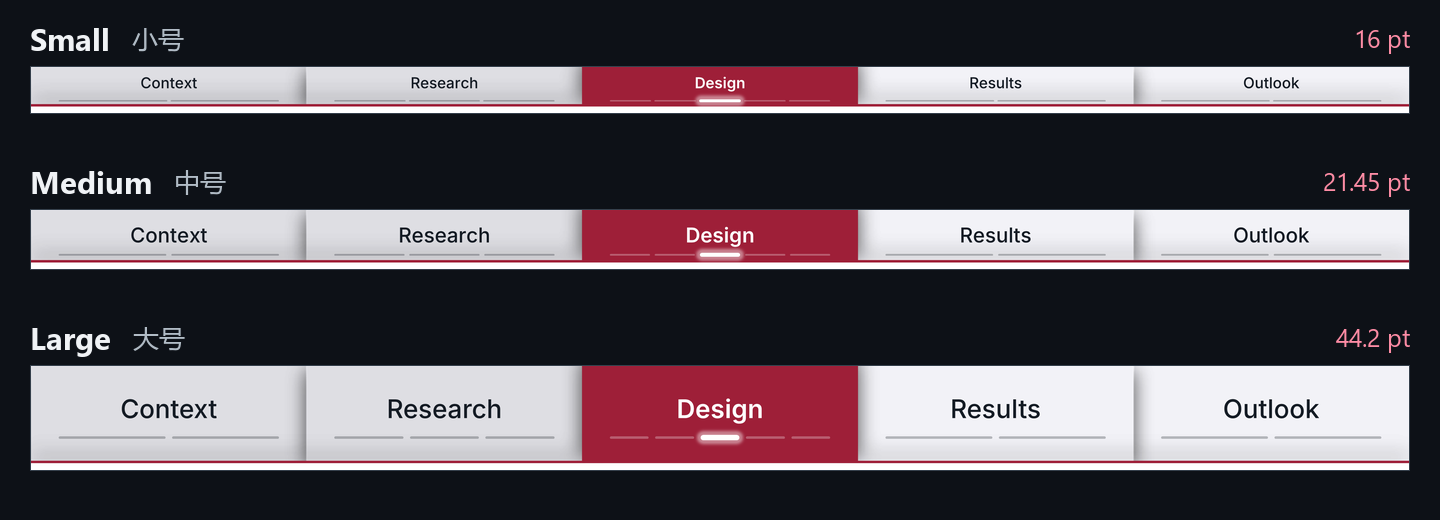
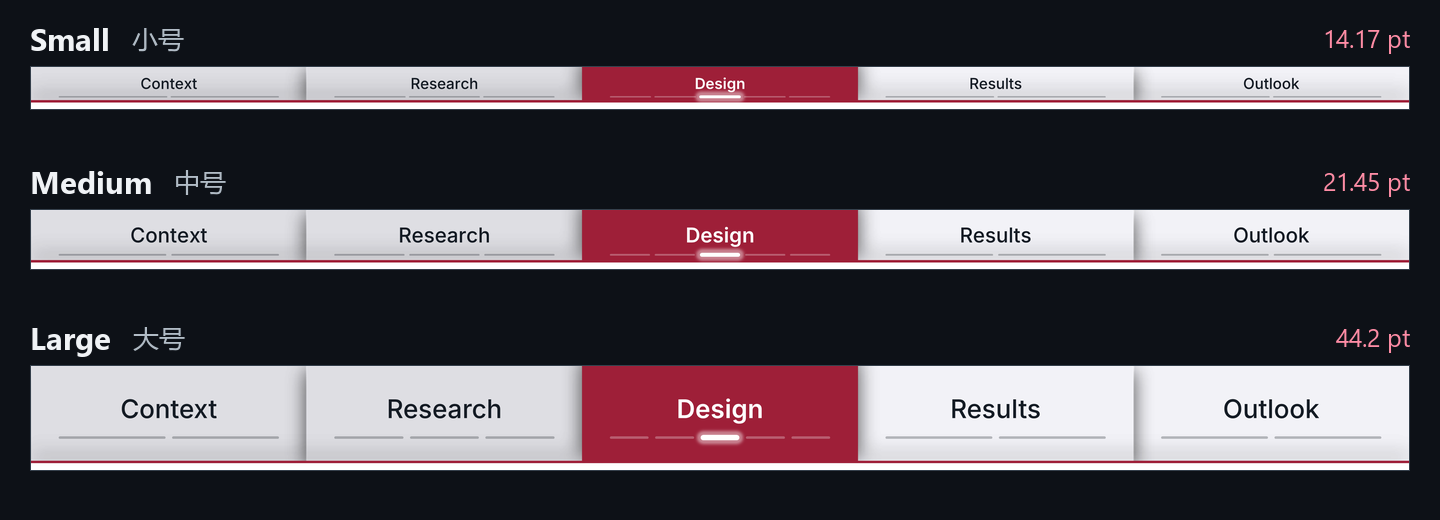
Adjust title spacing in the small Crimson Layers preset

Changed region(s): [[0.0, 0.1538, 1.0, 0.2462], [0.9062, 0.0615, 0.9688, 0.0923]]

diff --git a/english_sources.py b/english_sources.py
@@ -44,7 +44,7 @@ def prepare_english(
             continue
         source = ENCODED_TEXT.sub(translate_vba, module.read_text("utf-8-sig"))
         if module.name == "mdlOptionsHandling.bas":
-            source = source.replace('" CN.11.8 32b/64b"', '" EN.11.8 32b/64b"')
+            source = source.replace('" CN.11.9 32b/64b"', '" EN.11.9 32b/64b"')
         if module.name == "basGeneral.bas":
             source = source.replace('family = "Microsoft YaHei"',
                                     'family = "Segoe UI"')
@@ -60,7 +60,7 @@ def prepare_english(
     xml.write(target / "customUI14.xml", encoding="UTF-8", xml_declaration=True)
 
     catalog = json.loads((project_dir / "styles.json").read_text("utf-8"))
-    catalog["version"] = "EN.11.8"
+    catalog["version"] = "EN.11.9"
     for style in catalog["styles"]:
         for field in ("name", "family", "description"):
             style[field] = ribbon_text[style[field]]

diff --git a/build_package.py b/build_package.py
@@ -314,7 +314,7 @@ def main():
 
         source_dir = prepare_english(source_dir, ROOT, args.output_dir / "en")
     version = args.version_token or (
-        "EN11_8" if args.language == "en" else "CN11_8"
+        "EN11_9" if args.language == "en" else "CN11_9"
     )
     base_dir = RESOURCE_ROOT / "original/ProgressIndicators_v1960_3264b"
     reports = []

diff --git a/README.md b/README.md
@@ -9,7 +9,7 @@
   <sub><a href="https://github.com/AdamWilsonLab/progress_indicators">Upstream GitHub repository (AdamWilsonLab/progress_indicators)</a> | <a href="https://datenbank-projekt.de/projekte/progress-indicator-powerpoint-2010-2013-2016-32-and-64-bit-windows-mac">Olaf Nöhring's project page</a></sub>
 </p>
 
-<p align="center"><sub>PowerPoint for Windows &nbsp;|&nbsp; EN.11.8 / CN.11.8</sub></p>
+<p align="center"><sub>PowerPoint for Windows &nbsp;|&nbsp; EN.11.9 / CN.11.9</sub></p>
 
 <img src="docs/assets/native/crimson-layers.webp" alt="Five section tabs span the slide. Design is red, and its third marker glows white." width="100%" />
 
@@ -38,8 +38,8 @@ Download the ZIP for the language you want on the PowerPoint ribbon. Both packag
 
 | Download | File to open in PowerPoint |
 | --- | --- |
-| <a href="https://github.com/GH-X-ST/PowerPoint-Progress-Indicators/releases/download/EN.11.8/ProgressIndicators-EN.11.8.zip"><picture><source media="(prefers-color-scheme: dark)" srcset="docs/assets/badges/en-dark.svg" /><source media="(prefers-color-scheme: light)" srcset="docs/assets/badges/en-light.svg" /><img src="docs/assets/badges/en-light.svg" alt="Download the English edition (ZIP)" width="164" /></picture></a> | `ProgressIndicators_v1960_3264b_SB_EN11_8.ppam` |
-| <a href="https://github.com/GH-X-ST/PowerPoint-Progress-Indicators/releases/download/CN.11.8/ProgressIndicators-CN.11.8.zip"><picture><source media="(prefers-color-scheme: dark)" srcset="docs/assets/badges/cn-dark.svg" /><source media="(prefers-color-scheme: light)" srcset="docs/assets/badges/cn-light.svg" /><img src="docs/assets/badges/cn-light.svg" alt="Download the Simplified Chinese edition (ZIP)" width="164" /></picture></a> | `ProgressIndicators_v1960_3264b_SB_CN11_8.ppam` |
+| <a href="https://github.com/GH-X-ST/PowerPoint-Progress-Indicators/releases/download/EN.11.9/ProgressIndicators-EN.11.9.zip"><picture><source media="(prefers-color-scheme: dark)" srcset="docs/assets/badges/en-dark.svg" /><source media="(prefers-color-scheme: light)" srcset="docs/assets/badges/en-light.svg" /><img src="docs/assets/badges/en-light.svg" alt="Download the English edition (ZIP)" width="164" /></picture></a> | `ProgressIndicators_v1960_3264b_SB_EN11_9.ppam` |
+| <a href="https://github.com/GH-X-ST/PowerPoint-Progress-Indicators/releases/download/CN.11.9/ProgressIndicators-CN.11.9.zip"><picture><source media="(prefers-color-scheme: dark)" srcset="docs/assets/badges/cn-dark.svg" /><source media="(prefers-color-scheme: light)" srcset="docs/assets/badges/cn-light.svg" /><img src="docs/assets/badges/cn-light.svg" alt="Download the Simplified Chinese edition (ZIP)" width="164" /></picture></a> | `ProgressIndicators_v1960_3264b_SB_CN11_9.ppam` |
 
 1. Extract the ZIP. In PowerPoint for Windows, open **File > Options > Add-ins**.
 2. At the bottom of the dialog, set **Manage** to **PowerPoint Add-ins** and click **Go**.
@@ -80,12 +80,12 @@ With **Equal Sections**, each of the five sections below gets a fifth of the bar
 
 ### Choose a size and marker shape
 
-Each preset comes in **Small**, **Medium**, and **Large**. With a top or bottom bar, Small uses 7 pt titles. Its panel is 13 pt high in most presets and 16 pt in Crimson Layers, where the extra space separates letters such as g from the markers. The markers are half the height of the Large markers. They fill the middle 90% of the section in most presets. Crimson Layers uses the middle 80% at every size. For a left or right bar, adjust the sidebar width separately.
+Each preset comes in **Small**, **Medium**, and **Large**. With a top or bottom bar, Small uses 7 pt titles. Its panel is 13 pt high in most presets and about 14.17 pt in Crimson Layers. In the Design example below, the title starts 5 pt below the top edge, and the bottom of the g sits 1.5 pt above the solid part of the current marker. The markers are half the height of the Large markers. They fill the middle 90% of the section in most presets. Crimson Layers uses the middle 80% at every size. For a left or right bar, adjust the sidebar width separately.
 
 <picture>
   <source media="(prefers-color-scheme: dark)" srcset="docs/assets/native/sizes-dark.webp" />
   <source media="(prefers-color-scheme: light)" srcset="docs/assets/native/sizes-light.webp" />
-  <img src="docs/assets/native/sizes-light.webp" alt="Crimson Layers in Small (16 pt), Medium (21.45 pt), and Large (44.2 pt). Design is the current section in all three." width="100%" />
+  <img src="docs/assets/native/sizes-light.webp" alt="Crimson Layers in Small (14.17 pt), Medium (21.45 pt), and Large (44.2 pt). Design is the current section in all three." width="100%" />
 </picture>
 
 <details>
@@ -481,12 +481,12 @@ uv pip install --python .venv\Scripts\python.exe -r requirements-build.txt
 .\.venv\Scripts\python.exe build_package.py --language en --output-dir rebuild --report rebuild/package-validation.json
 ```
 
-The build creates `rebuild/ProgressIndicators_v1960_3264b_SB_EN11_8.pptm`. The English VBA and Ribbon XML are in `rebuild/en/source/` and the translated preset catalog is in `rebuild/en/styles.json`.
+The build creates `rebuild/ProgressIndicators_v1960_3264b_SB_EN11_9.pptm`. The English VBA and Ribbon XML are in `rebuild/en/source/` and the translated preset catalog is in `rebuild/en/styles.json`.
 
 To package the `.ppam`, continue in the same PowerShell window. This step uses desktop PowerPoint and needs permission to run the presentation's macros. Choose a new output file.
 
 ```powershell
-$name = 'ProgressIndicators_v1960_3264b_SB_EN11_8'
+$name = 'ProgressIndicators_v1960_3264b_SB_EN11_9'
 $sourceDeck = (Resolve-Path "rebuild\$name.pptm").Path
 $releaseDir = Join-Path (Get-Location) 'rebuild\distribution'
 $ppam = Join-Path $releaseDir "$name.ppam"

diff --git a/README.zh-CN.md b/README.zh-CN.md
@@ -9,7 +9,7 @@
   <sub><a href="https://github.com/AdamWilsonLab/progress_indicators">上游 GitHub 仓库（AdamWilsonLab/progress_indicators）</a> · <a href="https://datenbank-projekt.de/projekte/progress-indicator-powerpoint-2010-2013-2016-32-and-64-bit-windows-mac">Olaf Nöhring 的项目页</a></sub>
 </p>
 
-<p align="center"><sub>Windows 桌面版 PowerPoint &nbsp;|&nbsp; CN.11.8 / EN.11.8</sub></p>
+<p align="center"><sub>Windows 桌面版 PowerPoint &nbsp;|&nbsp; CN.11.9 / EN.11.9</sub></p>
 
 <img src="docs/assets/native/crimson-layers.webp" alt="深红层叠进度条：当前在 Design 章的第 3 页，章名下方的第三个页标发亮。" width="100%" />
 
@@ -42,8 +42,8 @@
 
 | 下载 | 解压后在 PowerPoint 中选择 |
 | --- | --- |
-| <a href="https://github.com/GH-X-ST/PowerPoint-Progress-Indicators/releases/download/CN.11.8/ProgressIndicators-CN.11.8.zip"><picture><source media="(prefers-color-scheme: dark)" srcset="docs/assets/badges/cn-dark.svg" /><source media="(prefers-color-scheme: light)" srcset="docs/assets/badges/cn-light.svg" /><img src="docs/assets/badges/cn-light.svg" alt="下载 CN.11.8 压缩包" width="164" /></picture></a> | `ProgressIndicators_v1960_3264b_SB_CN11_8.ppam` |
-| <a href="https://github.com/GH-X-ST/PowerPoint-Progress-Indicators/releases/download/EN.11.8/ProgressIndicators-EN.11.8.zip"><picture><source media="(prefers-color-scheme: dark)" srcset="docs/assets/badges/en-dark.svg" /><source media="(prefers-color-scheme: light)" srcset="docs/assets/badges/en-light.svg" /><img src="docs/assets/badges/en-light.svg" alt="下载 EN.11.8 压缩包" width="164" /></picture></a> | `ProgressIndicators_v1960_3264b_SB_EN11_8.ppam` |
+| <a href="https://github.com/GH-X-ST/PowerPoint-Progress-Indicators/releases/download/CN.11.9/ProgressIndicators-CN.11.9.zip"><picture><source media="(prefers-color-scheme: dark)" srcset="docs/assets/badges/cn-dark.svg" /><source media="(prefers-color-scheme: light)" srcset="docs/assets/badges/cn-light.svg" /><img src="docs/assets/badges/cn-light.svg" alt="下载 CN.11.9 压缩包" width="164" /></picture></a> | `ProgressIndicators_v1960_3264b_SB_CN11_9.ppam` |
+| <a href="https://github.com/GH-X-ST/PowerPoint-Progress-Indicators/releases/download/EN.11.9/ProgressIndicators-EN.11.9.zip"><picture><source media="(prefers-color-scheme: dark)" srcset="docs/assets/badges/en-dark.svg" /><source media="(prefers-color-scheme: light)" srcset="docs/assets/badges/en-light.svg" /><img src="docs/assets/badges/en-light.svg" alt="下载 EN.11.9 压缩包" width="164" /></picture></a> | `ProgressIndicators_v1960_3264b_SB_EN11_9.ppam` |
 
 1. 在 Windows 桌面版 PowerPoint 中打开 **文件 > 选项 > 加载项**。
 2. 在窗口底部的 **管理** 列表中选择 **PowerPoint 加载项**，点击 **转到**。如果列表里已启用旧版或另一种语言的版本，先取消勾选。
@@ -92,12 +92,12 @@
 
 ### 大、中、小号
 
-在预设名称下选择尺寸。以 **深红层叠** 为例，放在页面顶部或底部时，小号高 16 pt，中号高 21.45 pt，大号高 44.2 pt。小号章名与页标之间多留了 3 pt，像 g 这样向下伸出的字母也有空隙。所有预设的小号都用 7 pt 的章名，页标厚度是同款大号的一半。大多数预设的小号页标两端各留 5% 的章宽，深红层叠的三种尺寸都各留 10%。
+在预设名称下选择尺寸。以 **深红层叠** 为例，放在页面顶部或底部时，小号高约 14.17 pt，中号高 21.45 pt，大号高 44.2 pt。下图小号的 `Design` 距章体顶部 5 pt，字母 `g` 的下缘距当前页标的实心部分 1.5 pt。所有预设的小号都用 7 pt 的章名，页标厚度是同款大号的一半。大多数预设的小号页标两端各留 5% 的章宽，深红层叠的三种尺寸都各留 10%。
 
 <picture>
   <source media="(prefers-color-scheme: dark)" srcset="docs/assets/native/sizes-dark.webp" />
   <source media="(prefers-color-scheme: light)" srcset="docs/assets/native/sizes-light.webp" />
-  <img src="docs/assets/native/sizes-light.webp" alt="深红层叠横向放置。小号高 16 pt，中号高 21.45 pt，大号高 44.2 pt。" width="100%" />
+  <img src="docs/assets/native/sizes-light.webp" alt="深红层叠横向放置。小号高 14.17 pt，中号高 21.45 pt，大号高 44.2 pt。" width="100%" />
 </picture>
 
 <details>
@@ -501,10 +501,10 @@ VBA 模块、窗体和功能区 XML 在 `source/` 中。修改预设参数时，
 ```powershell
 uv venv --python 3.12 .venv
 uv pip install --python .venv\Scripts\python.exe -r requirements-build.txt
-.\.venv\Scripts\python.exe build_package.py --output-dir rebuild --version-token CN11_8 --report rebuild\package-validation.json
+.\.venv\Scripts\python.exe build_package.py --output-dir rebuild --version-token CN11_9 --report rebuild\package-validation.json
 ```
 
-输出文件是 `rebuild/ProgressIndicators_v1960_3264b_SB_CN11_8.pptm`。要得到可安装的 `.ppam`，用发布脚本调用 Windows 桌面版 PowerPoint 另存这份文稿。[中文版构建与发布说明](BUILD_zh-CN.txt)
+输出文件是 `rebuild/ProgressIndicators_v1960_3264b_SB_CN11_9.pptm`。要得到可安装的 `.ppam`，用发布脚本调用 Windows 桌面版 PowerPoint 另存这份文稿。[中文版构建与发布说明](BUILD_zh-CN.txt)
 
 <a id="license"></a>
 <a id="许可证与署名"></a>

diff --git a/THIRD_PARTY_NOTICES.en.md b/THIRD_PARTY_NOTICES.en.md
@@ -6,6 +6,6 @@ This project is based on Progress Indicator 1.960. Its MIT License preserves the
 
 ## FatCow Farm-Fresh Web Icons
 
-Copyright (C) 2009-2014 FatCow Web Hosting. The upstream author credits FatCow for most of the Ribbon icons. EN.11.8 includes the icons embedded in the upstream PowerPoint templates. FatCow's Farm-Fresh Web Icons use the **Creative Commons Attribution 3.0 United States (CC BY 3.0 US)** license. [FatCow icon page](http://www.fatcow.com/free-icons) | [CC BY 3.0 US legal code](https://creativecommons.org/licenses/by/3.0/us/legalcode)
+Copyright (C) 2009-2014 FatCow Web Hosting. The upstream author credits FatCow for most of the Ribbon icons. EN.11.9 includes the icons embedded in the upstream PowerPoint templates. FatCow's Farm-Fresh Web Icons use the **Creative Commons Attribution 3.0 United States (CC BY 3.0 US)** license. [FatCow icon page](http://www.fatcow.com/free-icons) | [CC BY 3.0 US legal code](https://creativecommons.org/licenses/by/3.0/us/legalcode)
 
 FatCow's original terms describe use in personal and commercial software, websites, and templates and request a link to the icon source in the software or website credits. They also list restrictions on reselling, sublicensing, renting, transferring, or otherwise making the icons available for others to use. [Archived FatCow terms of use](https://web.archive.org/web/20190416064342/https://www.fatcow.com/free-icons) | [Mirror of the notice distributed with the icon set](https://raw.githubusercontent.com/gammasoft/fatcow/master/readme-fatcow.txt)

diff --git a/THIRD_PARTY_NOTICES.md b/THIRD_PARTY_NOTICES.md
@@ -6,6 +6,6 @@
 
 ## FatCow Farm-Fresh Web Icons
 
-© 2009–2014 FatCow Web Hosting. 上游作者说明，功能区的大部分图标取自 FatCow。CN.11.8 沿用了上游模板中嵌入的图标。FatCow 的 Farm-Fresh Web Icons 使用 **Creative Commons Attribution 3.0 United States (CC BY 3.0 US)** 许可。[FatCow 图标原页](http://www.fatcow.com/free-icons) · [许可全文](https://creativecommons.org/licenses/by/3.0/us/legalcode)
+© 2009–2014 FatCow Web Hosting. 上游作者说明，功能区的大部分图标取自 FatCow。CN.11.9 沿用了上游模板中嵌入的图标。FatCow 的 Farm-Fresh Web Icons 使用 **Creative Commons Attribution 3.0 United States (CC BY 3.0 US)** 许可。[FatCow 图标原页](http://www.fatcow.com/free-icons) · [许可全文](https://creativecommons.org/licenses/by/3.0/us/legalcode)
 
 FatCow 原网页说明，图标可用于个人及商业软件、网站和模板，并要求在软件或网站的致谢处链接图标来源。同一页还列明不得转售、再许可、出租、转让图标，或以其他方式提供图标供人使用。[FatCow 官网存档中的 Terms of Use](https://web.archive.org/web/20190416064342/https://www.fatcow.com/free-icons) · [图标包随附说明的镜像](https://raw.githubusercontent.com/gammasoft/fatcow/master/readme-fatcow.txt)
